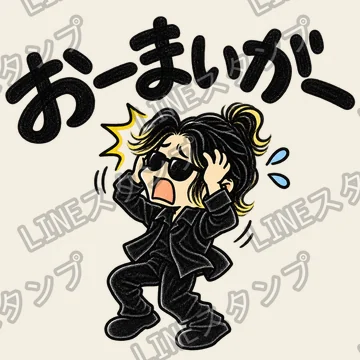
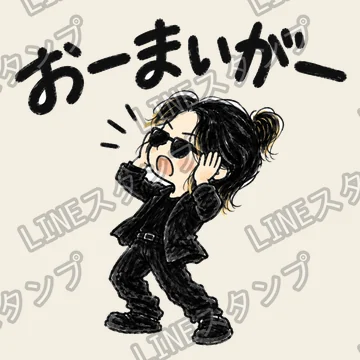
改良5枚を差し替え、新作4枚を足して18枚にした
届いた9枚のうち5枚は既にあるセリフの描き直しなので、絵だけ入れ替える
（なに食べよ・ネクストレベル・bye-bye・いいやんか・おーまいがー）。
残り4枚は新しいセリフなので足した（かわええなぁ・わーい・はいっ・ほな）。

届いた絵は白地で透明を持っていなかった。そのまま焼くと、紙の色で埋まる
ほかの14枚と並ばず、この9枚だけ白い四角で出る。焼くほうは触らずに、
焼く前に地の白を抜く道具を足した（tools/goods/linecut.py）。
ふちから繋がっている白だけを抜くので、コック帽も紙も残る。
ネクストレベルの階段だけは線で囲われた白なので --all で抜いた
（残すと足元に白い塊が出るのを撮って確かめた）。

Claude-Session: https://claude.ai/code/session_01LuEuARCBiX8w9R3CwPpCH6

Changed region(s): [[0.0, 0.0306, 1.0, 0.9778]]

diff --git a/site/content/goods.ts b/site/content/goods.ts
@@ -164,7 +164,7 @@ export type LineStamp = {
 export const LINE_PENDING = "/goods/line/pending.webp";
 
 /**
- * あやとのぶん。**いま14枚**（`LINE_WANT` の 15 まであと1枚）。
+ * あやとのぶん。**いま18枚**（`LINE_WANT` は 15。**候補が行き先より多い**）。
  *
  * 並べ替えない——「おはよう・こんばんは・おやすみ」で1日が回って、
  * そのあとに気持ちが4つ、最後に使いどころのある3つ、という並びになっている。
@@ -180,6 +180,10 @@ export const LINE_STAMPS: LineStamp[] = [
   { id: "byebye", line: "bye-bye", art: "/goods/line/byebye.webp" },
   { id: "arigatou", line: "ありがとう", art: "/goods/line/arigatou.webp" },
   { id: "ureshii", line: "うれしい", art: "/goods/line/ureshii.webp" },
+  /* **新しい4枚**（あやと 2026-10-09。改良ぶんは絵だけ差し替え）。
+     気持ちのかたまりに、うれしいの濃いほうを2つ */
+  { id: "waai", line: "わーい", art: "/goods/line/waai.webp" },
+  { id: "kawaee", line: "かわええなぁ", art: "/goods/line/kawaee.webp" },
   /* **すごいよ は、あとから届いた11枚目。** 気持ちの並びの中に入れてある
      （うれしい → すごいよ → いいやんか）。LINE に出すときの順番は
      あやとが後で決めるので、ここの並びは島の面の並びでしかない。 */
@@ -187,8 +191,12 @@ export const LINE_STAMPS: LineStamp[] = [
   /* 気持ちのかたまりの中。「すごいよ」の次に、もう一段上げる一言 */
   { id: "nextlevel", line: "ネクストレベル", art: "/goods/line/nextlevel.webp" },
   { id: "iiyanka", line: "いいやんか", art: "/goods/line/iiyanka.webp" },
+  /* 相づちのかたまり。「いいやんか」の次に、締めの一言 */
+  { id: "hona", line: "ほな", art: "/goods/line/hona.webp" },
   { id: "yabai", line: "やばいよやばいよ", art: "/goods/line/yabai.webp" },
   { id: "chottomatte", line: "ちょっとまってよ", art: "/goods/line/chottomatte.webp" },
+  /* 返事。間のかたまりに置く（待たせる・応える・迷う） */
+  { id: "hai", line: "はいっ", art: "/goods/line/hai.webp" },
   /* 使いどころのあるほうのかたまり。フライパンの絵なので、台所の配信で効く */
   { id: "nanitabeyo", line: "なに食べよ", art: "/goods/line/nanitabeyo.webp" },
   { id: "sugumodoru", line: "すぐもどる", art: "/goods/line/sugumodoru.webp" },

diff --git a/tools/goods/linecut.py b/tools/goods/linecut.py
@@ -1,0 +1,139 @@
+"""届いたスタンプの絵から、**地の白を抜いて透明にする。**
+
+    python3 tools/goods/linecut.py <元の絵> <出す先> [--all]
+
+## なぜ要るか
+
+スタンプの元絵は、届くときに**白地のまま**のことがある（2026-10-09 の9枚がそれ）。
+焼くほう（`stampbake.py`）は透明なところを紙の色（`PENDING_BG`）で埋めるので、
+**透明を持たない絵だけ白い四角で出て、ほかと並ばない。**
+
+だから焼く前にここで抜く。**`stampbake.py` は触らない**——あちらは
+「透明な元絵を受け取る」ことにしてあって、14枚ぶんそれで通っている。
+
+## ふちから繋がっている白だけを抜く（既定）
+
+絵の中の白は**残す。** コック帽・紙・目の光は、地ではなく絵の一部。
+いちめんに白を抜くと、それが全部消える。
+
+## `--all` は、閉じた白も抜く
+
+「ネクストレベル」の階段がそれ。線で囲われた白なので、ふちから繋がっていない。
+残すと**足元に白い塊が出る**（撮って確かめた）。
+**絵ごとに目で見て決める。** 既定にしない——帽子と紙を失う絵のほうが多い。
+"""
+
+from __future__ import annotations
+
+import sys
+from collections import deque
+from pathlib import Path
+
+from PIL import Image
+
+#: これ以上明るい画素を「地の白」とみなす。にじみを少し含める
+TOL = 14
+#: `--all` のときのしきい。閉じた白は塗りむらがあるので、少し厳しく
+TOL_ALL = 14
+
+
+def edge_cut(im: Image.Image, tol: int = TOL) -> Image.Image:
+    """**ふちから繋がっている白だけ**を透明にする。"""
+    im = im.convert("RGBA")
+    w, h = im.size
+    px = im.load()
+    seen = bytearray(w * h)
+    q: deque[tuple[int, int]] = deque()
+
+    def white(x: int, y: int) -> bool:
+        r, g, b, _ = px[x, y]
+        return r >= 255 - tol and g >= 255 - tol and b >= 255 - tol
+
+    for x in range(w):
+        for y in (0, h - 1):
+            if not seen[y * w + x] and white(x, y):
+                seen[y * w + x] = 1
+                q.append((x, y))
+    for y in range(h):
+        for x in (0, w - 1):
+            if not seen[y * w + x] and white(x, y):
+                seen[y * w + x] = 1
+                q.append((x, y))
+    while q:
+        x, y = q.popleft()
+        px[x, y] = (255, 255, 255, 0)
+        for dx, dy in ((1, 0), (-1, 0), (0, 1), (0, -1)):
+            nx, ny = x + dx, y + dy
+            if 0 <= nx < w and 0 <= ny < h and not seen[ny * w + nx] and white(nx, ny):
+                seen[ny * w + nx] = 1
+                q.append((nx, ny))
+    return im
+
+
+def all_cut(im: Image.Image, tol: int = TOL_ALL) -> Image.Image:
+    """**いちめんの白**を透明にする。閉じた白も抜ける（帽子や紙も消える）。"""
+    im = im.convert("RGBA")
+    px = im.load()
+    for y in range(im.height):
+        for x in range(im.width):
+            r, g, b, _ = px[x, y]
+            if r >= 255 - tol and g >= 255 - tol and b >= 255 - tol:
+                px[x, y] = (255, 255, 255, 0)
+    return im
+
+
+def drill() -> bool:
+    """対照。**本物を1枚も抜く前に回す。**
+
+    見るのは2つ。**ふちの白が抜けること**と、**閉じた白が残ること。**
+    2つ目が外れていると、既定でも帽子と紙を失う。
+    """
+    ok = True
+    # 白地の真ん中に、黒い輪っか（中は白）
+    probe = Image.new("RGBA", (40, 40), (255, 255, 255, 255))
+    p = probe.load()
+    for y in range(12, 28):
+        for x in range(12, 28):
+            on_ring = x in (12, 27) or y in (12, 27)
+            p[x, y] = (0, 0, 0, 255) if on_ring else (255, 255, 255, 255)
+
+    got = edge_cut(probe.copy())
+    if got.getpixel((0, 0))[3] != 0:
+        print("対照1 外れ: ふちの白が抜けていない")
+        ok = False
+    if got.getpixel((20, 20))[3] != 255:
+        print("対照2 外れ: 閉じた白まで抜けた（帽子と紙を失う）")
+        ok = False
+    got2 = all_cut(probe.copy())
+    if got2.getpixel((20, 20))[3] != 0:
+        print("対照3 外れ: --all なのに閉じた白が残った")
+        ok = False
+    if got2.getpixel((20, 12))[3] != 255:
+        print("対照4 外れ: --all が黒い線まで抜いた")
+        ok = False
+    return ok
+
+
+def main(argv: list[str]) -> int:
+    if not drill():
+        print("対照が外れた。本物は抜かない")
+        return 2
+    args = [a for a in argv if not a.startswith("--")]
+    if len(args) != 2:
+        print(__doc__)
+        return 2
+    src, dst = Path(args[0]), Path(args[1])
+    im = Image.open(src)
+    out = all_cut(im) if "--all" in argv else edge_cut(im)
+    bb = out.getchannel("A").getbbox()
+    if bb is None:
+        print("中身が1画素も残らなかった。しきいが強すぎる")
+        return 2
+    dst.parent.mkdir(parents=True, exist_ok=True)
+    out.save(dst)
+    print(f"抜いた: {dst}  中身 {bb[2]-bb[0]}x{bb[3]-bb[1]}")
+    return 0
+
+
+if __name__ == "__main__":
+    raise SystemExit(main(sys.argv[1:]))
